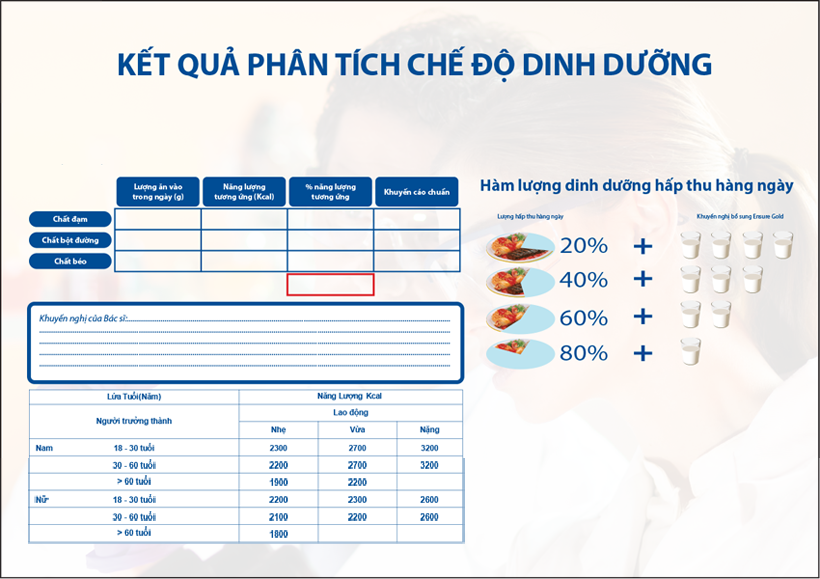
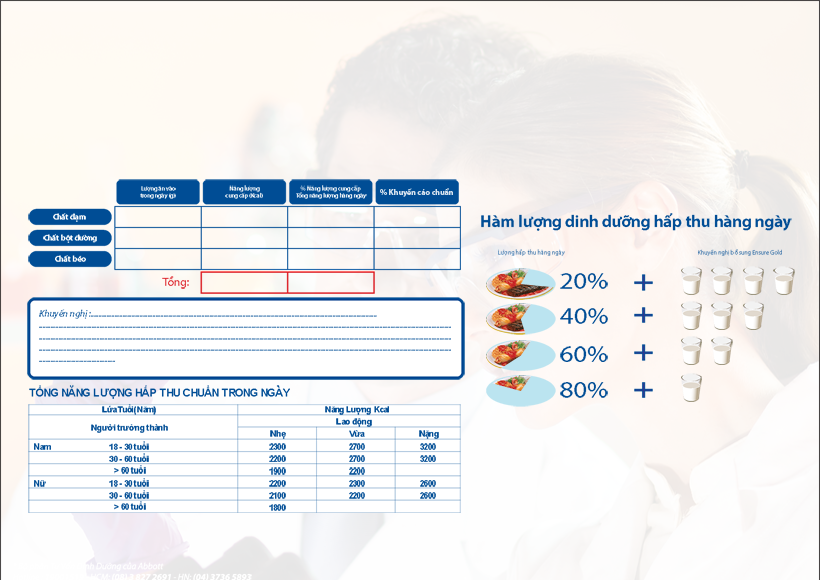
Sort list, add more data, validation, calculation

diff --git a/app/views/nutrient.html b/app/views/nutrient.html
@@ -4,12 +4,12 @@
   <h1>Thông Tin Chung</h1>
   <div class="icon-row">
   	<label for="fullname">Họ và tên</label>
-  	<input type="text" id="fullname" ng-model="customer.fullname"/>
+    <input type="text" id="fullname" ng-model="customer.fullname" class="longText"/>
   	<span class="span">Giới tính</span>
   	<input type="radio" ng-model="customer.gender" value="Nam"/>Nam
   	<input type="radio" ng-model="customer.gender" value="Nữ"/>Nữ
    	<span class="span">Tuổi</span>
-  	<input type="text" id="age" ng-model="customer.age" class="number"/>
+    <input type="text" id="age" ng-model="customer.age" class="number" maxlength="2"/>
   </div>
   <div class="icon-row">
   	<label for="address">Địa chỉ</label>
@@ -34,10 +34,10 @@
 
     <span class="span">Món ăn</span>
     <!--<select id="food" ng-model="meal.food" ng-options="f.thucan for f in foods | filter:meal.time.value"></select>-->
-    <input type="text" autocomplete="meal.food" />
+    <input type="text" autocomplete="meal.food" class="mediumText"/>
 
     <span class="span">Số lượng</span>
-    <input type="number" id="quantity" ng-model="meal.quantity" class="number"/>
+    <input type="text" id="quantity" ng-model="meal.quantity" class="number" maxlength="2"/>
     <input type="button" value="Thêm vào" ng-click="saveFood();"/>  
   </div>
 
@@ -60,7 +60,7 @@
       </tr>
     </thead>
     <tbody>
-      <tr ng-repeat="item in menu">
+      <tr ng-repeat="item in menu | orderBy:'time.order'"">
         <td>{{$index + 1}}</td>
         <td>{{item.time.label}}</td>
         <td>{{item.food.thucan}}</td>
@@ -114,25 +114,25 @@
             <tr>
               <td>{{result.amountOfFood.dam | number : 1}}</td>
               <td>{{result.energy.dam | number : 1}}</td>
-              <td>{{result.percentage.dam | number : 0}}</td>
-              <td>10-35</td>
+              <td class="bold">{{result.percentage.dam | number : 0}}</td>
+              <td class="bold">13-15</td>
             </tr>
             <tr>
               <td>{{result.amountOfFood.duong | number : 1}}</td>
               <td>{{result.energy.duong | number : 1}}</td>
-              <td>{{result.percentage.duong | number : 0}}</td>
-              <td>45-65</td>
+              <td class="bold">{{result.percentage.duong | number : 0}}</td>
+              <td class="bold">55-60</td>
             </tr>
             <tr>
               <td>{{result.amountOfFood.beo | number : 1}}</td>
               <td>{{result.energy.beo | number : 1}}</td>
-              <td>{{result.percentage.beo | number : 0}}</td>
-              <td>20-35</td>
+              <td class="bold">{{result.percentage.beo | number : 0}}</td>
+              <td class="bold">20-25</td>
             </tr>
             <tr>
               <td>&nbsp;</td>
-              <td>&nbsp;</td>
-              <td class="total"></td>
+              <td class="total">{{result.total.energy | number : 1}}</td>
+              <td class="total">{{result.total.percentage | number : 0}}</td>
               <td>&nbsp;</td>
             </tr>
           </table>

diff --git a/app/scripts/services/NutrientService.js b/app/scripts/services/NutrientService.js
@@ -46,14 +46,15 @@ angular.module('nutrientServices', [])
           beoKCalTotal += item.quantity * item.food.beo * 9;
           duongKCalTotal += item.quantity * item.food.duong * 4;        
         }
+        var energyTotal = damKCalTotal + beoKCalTotal + duongKCalTotal;
         // Dam
-        var damPercentage = damKCalTotal / (damKCalTotal + beoKCalTotal + duongKCalTotal);
+        var damPercentage = damKCalTotal / (energyTotal);
         damPercentage = isNaN(damPercentage) ? 0 : damPercentage.toFixed(2) * 100;
         // Beo
-        var beoPercentage = beoKCalTotal / (damKCalTotal + beoKCalTotal + duongKCalTotal);
+        var beoPercentage = beoKCalTotal / (energyTotal);
         beoPercentage = isNaN(beoPercentage) ? 0 : beoPercentage.toFixed(2) * 100;
         // Duong
-        var duongPercentage = duongKCalTotal / (damKCalTotal + beoKCalTotal + duongKCalTotal);
+        var duongPercentage = duongKCalTotal / (energyTotal);
         duongPercentage = isNaN(duongPercentage) ? 0 : duongPercentage.toFixed(2) * 100;
 
         // amount of food
@@ -62,6 +63,9 @@ angular.module('nutrientServices', [])
         result.energy = {dam: damKCalTotal, beo: beoKCalTotal, duong: duongKCalTotal};
         // percentage of energy
         result.percentage = {dam: damPercentage, beo: beoPercentage, duong: duongPercentage};
+        // total
+        var percentageTotal = damPercentage + beoPercentage + duongPercentage;
+        result.total = {energy: energyTotal, percentage: percentageTotal};
 
 		    return result;
 	    }

diff --git a/app/scripts/controllers/nutrient.js b/app/scripts/controllers/nutrient.js
@@ -5,10 +5,10 @@ angular.module('nutrientApp')
     $scope.page = 'menu';
     $scope.menu = [];
     $scope.times = [
-      {label: 'Sáng', value: 'Sáng'},
-      {label: 'Trưa', value: 'Trưa'},
-      {label: 'Chiều', value: 'Chiều'},
-      {label: 'Trái Cây & Thức uống', value: 'Trái Cây & Thức uống'}
+      {label: 'Sáng', value: 'Sáng', order:1},
+      {label: 'Trưa', value: 'Trưa', order:2},
+      {label: 'Chiều', value: 'Chiều', order:3},
+      {label: 'Trái Cây& Thức uống', value: 'Trái Cây& Thức uống', order:4}
     ];
     // Set default value for gender (M)
     $scope.customer = {gender: 'Nam'};
@@ -24,7 +24,11 @@ angular.module('nutrientApp')
     // Add food to list
     $scope.saveFood = function() {
       if (isEmpty($scope.meal.time) || isEmpty($scope.meal.food) || isEmpty($scope.meal.quantity)) {
-        alert("Xin chọn món ăn và số lượng");
+        window.alert("Xin chọn món ăn và số lượng");
+        return;
+      }
+      if (isNaN($scope.meal.quantity)) {
+        window.alert("Xin nhập số lượng bằng số");
         return;
       }
     

diff --git a/app/scripts/filters/filters.js b/app/scripts/filters/filters.js
@@ -37,12 +37,13 @@ angular.module('nutrientFilters', [])
             beoTotal += item.quantity * item.food.beo * 9;
             duongTotal += item.quantity * item.food.duong * 4;
           }
+          var energyTotal = damTotal + beoTotal + duongTotal;
           if (field === "dam") {
-            percentage = damTotal / (damTotal + beoTotal + duongTotal);
+            percentage = damTotal / (energyTotal);
           } else if (field === "beo") {
-            percentage = beoTotal / (damTotal + beoTotal + duongTotal);
+            percentage = beoTotal / (energyTotal);
           } else if (field === "duong") {
-            percentage = duongTotal / (damTotal + beoTotal + duongTotal);
+            percentage = duongTotal / (energyTotal);
           }
           percentage = isNaN(percentage) ? 0 : percentage.toFixed(2);          
 		      return percentage * 100;

diff --git a/app/styles/main.css b/app/styles/main.css
@@ -27,7 +27,12 @@ h2 {
     padding: 0 0 10px 0;
     margin: 0;
 }
-
+.longText {
+  width: 400px;
+}
+.mediumText {
+  width: 250px;
+}
 .number {
   width: 50px;
 }
